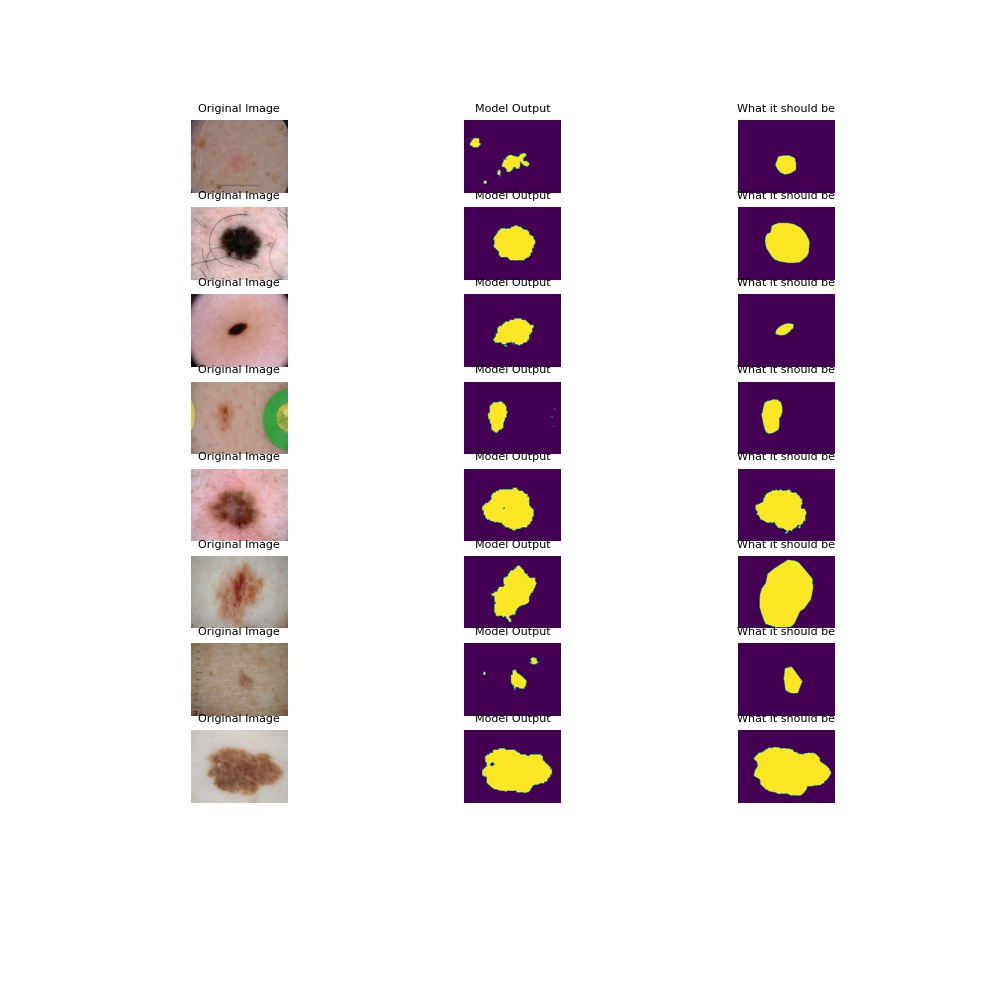
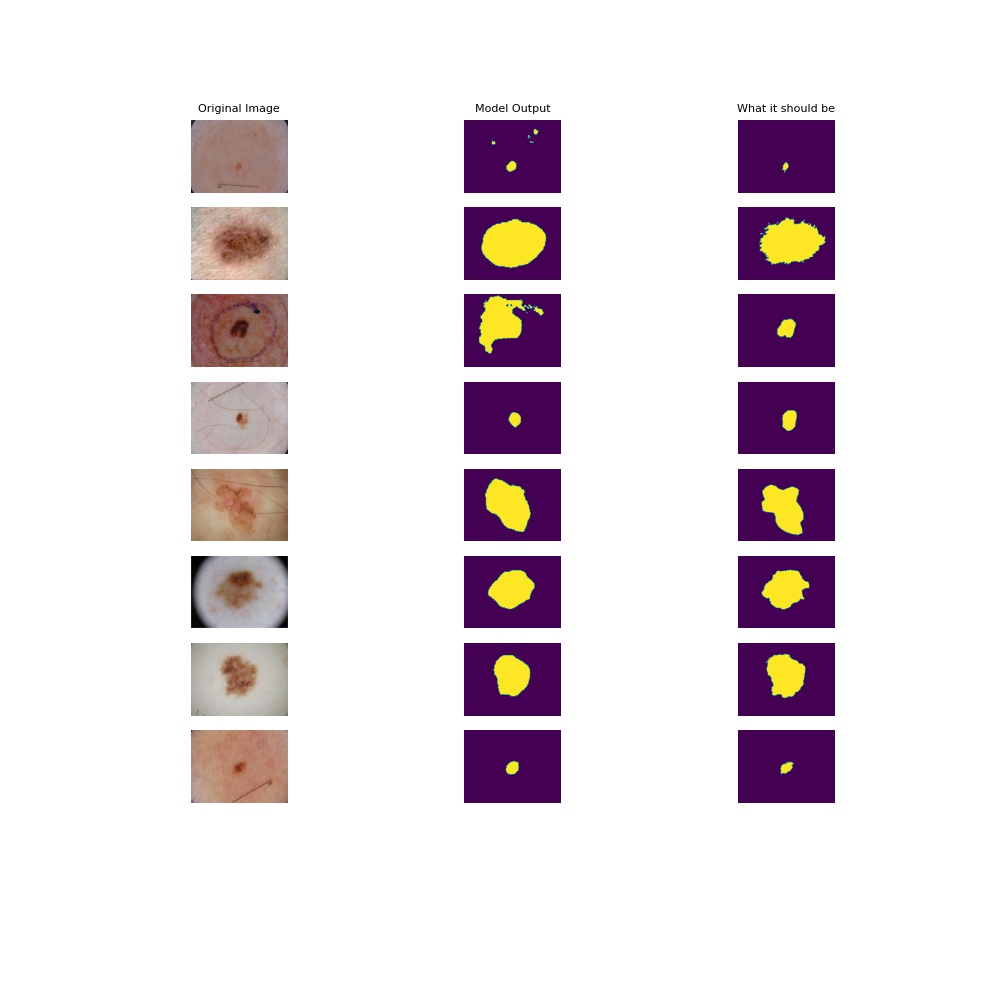
changes to results output image and commenting changes.

diff --git a/recognition/s4079475/execute.py b/recognition/s4079475/execute.py
@@ -35,7 +35,7 @@ def encode_y(y):
 class ISICs2018Sequence(Sequence):
     
     """
-    A class defining a Sequence to be used iteratively for each batch and epoch such that the model has access to the raw training and ground image in real time. 
+    A class defining a Sequence to be used iteratively for each batch and epoch. 
     
     @param Sequence -- A keras Sequence
     
@@ -72,6 +72,7 @@ class ISICs2018Sequence(Sequence):
         """
         
         Gets the subject image and ground truth image associated with the current batch for the current image id that the model is processing. 
+        Gurantees training on each sample per epoch. 
         
         @param id - The current id of the subject image being used in the model. 
         
@@ -154,18 +155,28 @@ def show_images(test, model) :
     plt.figure(figsize=(10, 10))
     
     for i in range(8):
+           
         plt.subplot(9, 3, i*3+1)
         plt.imshow(x[i])
         plt.axis('off')
-        plt.title("Original Image", size=8)
+        
+        if i == 0 :
+            plt.title("Original Image", size=8)     
+        
         plt.subplot(9, 3, i*3+2)
         plt.imshow(tf.argmax(prediction[i], axis=2))
         plt.axis('off')
-        plt.title("Model Output", size=8)
+        
+        if i == 0 :
+            plt.title("Model Output", size=8)
+        
         plt.subplot(9, 3, i*3+3)
         plt.imshow(tf.argmax(y[i], axis=2))
         plt.axis('off')
-        plt.title("What it should be", size=8)
+        
+        if i == 0 :
+            plt.title("What it should be", size=8)
+    
     plt.show()
 
 if __name__ == "__main__":
